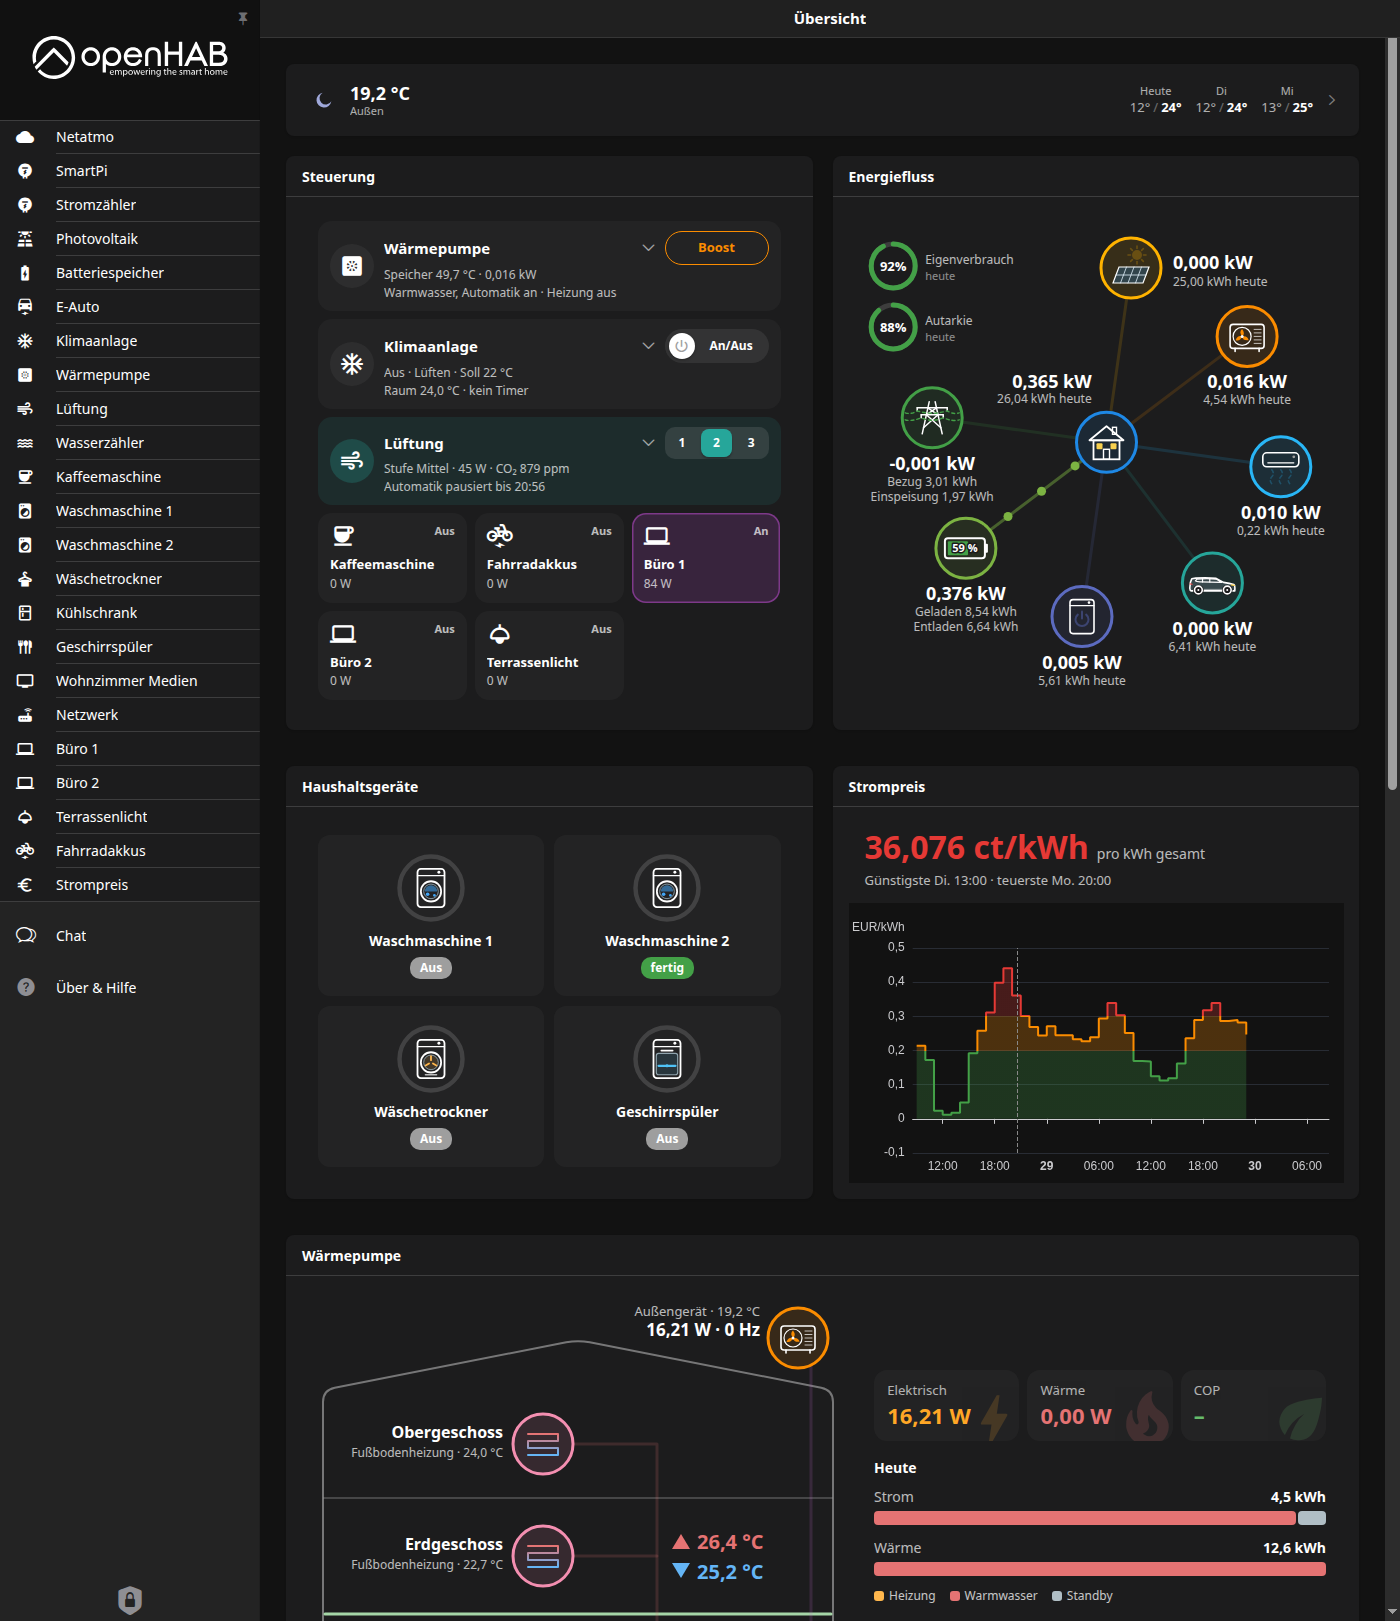
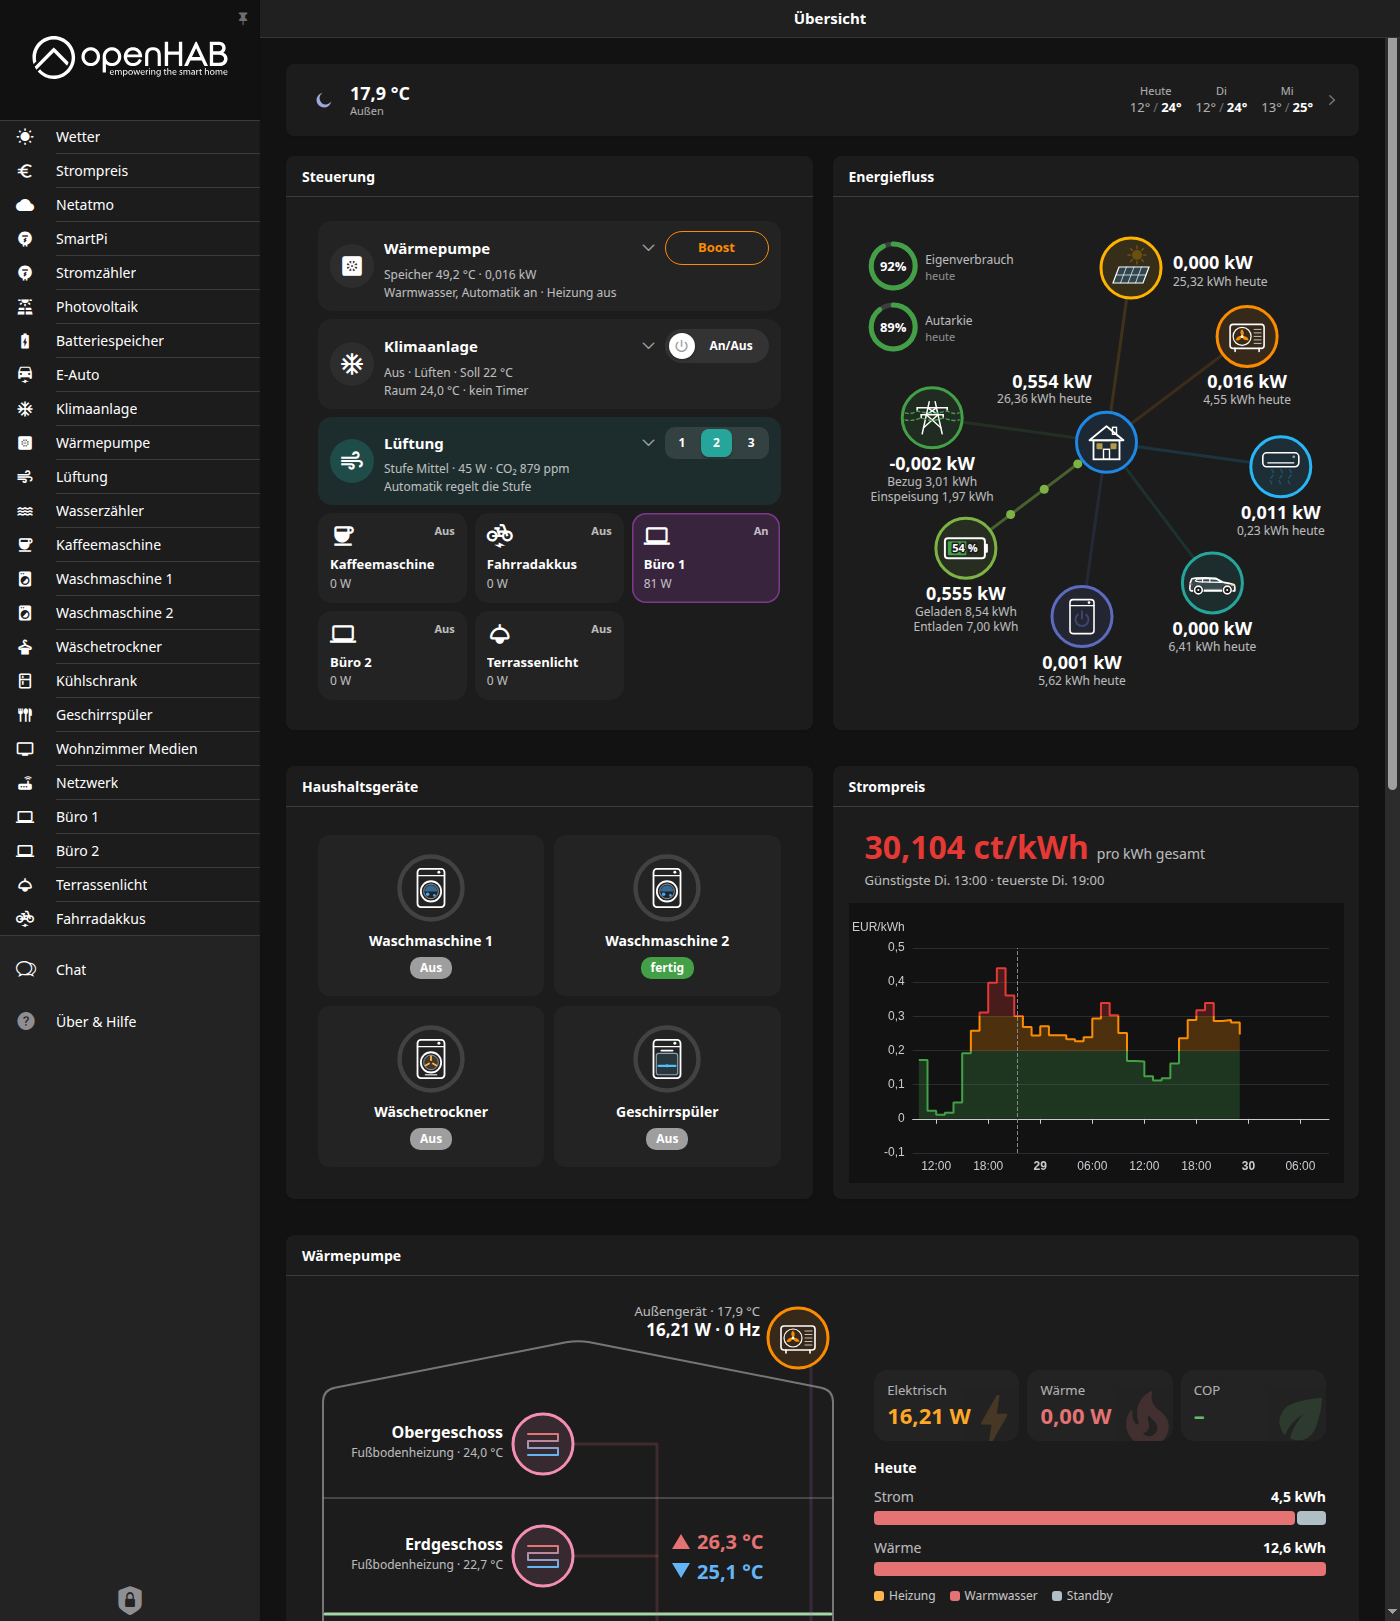
scripts: the weather as the sidebar's first page
- A page weather (Wetter) of the forecast popup's cards: on a wider screen
  the forecast beside Meteoblue and the other sources, the warnings across
  both while there are any
- Pages the generator adds get label, icon and sidebar order from
  NEW_PAGES until the UI changes them
- The Meteoblue frame at most 507 px wide, so its worked-out height holds
  in a wider card too
- sidebar_order.py numbers the sidebar anew from 1: Wetter, Strompreis,
  then the devices in their order so far
- Overview screenshots retaken with the new sidebar

diff --git a/scripts/openhab-ui/dashboard.py b/scripts/openhab-ui/dashboard.py
@@ -1056,16 +1056,19 @@ def weather_forecast_card():
     return card("Vorhersage", [days, div([weather_forecast_chart()], **{"padding": "0 4px 6px"})])
 
 
-def weather_popup(now):
+def weather_cards():
+    """The weather's cards, for its popup and its page: warnings, forecast, Meteoblue and the other sources."""
     # the widget's height follows its width, 434 px at 293 px wide and 0.36 px more per pixel (measured); the frame
-    # is the popup's width less 52 px on a phone and 507 px in the popup of a wider screen. A page cannot read the
-    # height of a frame from another site, so it is worked out from the width
+    # is the card's width less 52 px on a phone and 507 px at most, in the popup of a wider screen as on the page,
+    # where it stands in the middle of a wider card. A page cannot read the height of a frame from another site, so
+    # it is worked out from the width
     width = "Math.min(507, screen.width - 52)"
     # the widget's document declares no color-scheme: in MainUI's dark theme Chrome would paint an opaque white
     # canvas behind it, and the dark layout's white text would vanish; a light scheme keeps the canvas transparent
     frame = comp("oh-webframe", {"src": f"='{METEOBLUE}' + (themeOptions.dark === 'dark' ? 'dark' : 'light')",
                                  "height": f"=Math.ceil(434 + ({width} - 293) * 0.36) + 8 + 'px'", "frameborder": "0",
-                                 "scrolling": "no", "style": {"width": "100%", "border": "0", "display": "block",
+                                 "scrolling": "no", "style": {"width": "100%", "max-width": "507px", "margin": "0 auto",
+                                                              "border": "0", "display": "block",
                                                               "color-scheme": "light"}})
     orf = div([comp("oh-icon", {"icon": "material:open_in_new", "width": 22, "height": 22}),
                label("Prognose für Wien bei wetter.orf.at", **{"flex": "1", "font-size": "14px"}),
@@ -1076,15 +1079,29 @@ def weather_popup(now):
                  "(CC BY 4.0), Modell GeoSphere AROME Austria, spätere Stunden und Tage sowie die "
                  "Regenwahrscheinlichkeit aus dem Best Match; Warnungen von GeoSphere Austria (warnungen.zamg.at).",
                  **{"font-size": "12px", "opacity": "0.6", "padding": "4px 16px 14px"})
-    # the cards as rows of one block, as in the other popups, so they keep a card's gap and not a block's; the
-    # warnings only while there are any, without them the forecast stands at the top
-    warnings = row(full(weather_warnings_card()))
-    warnings["config"]["visible"] = f"={wx_json(WX_WARNINGS)}.length > 0"
-    blocks = [block(warnings,
-                    row(full(weather_forecast_card())),
-                    row(full(card("Meteoblue · 5 Tage", [div([frame], **{"padding": "4px 12px 12px"})]))),
-                    row(full(card("Weitere Quellen", [orf, note]))))]
+    return (weather_warnings_card(), weather_forecast_card(),
+            card("Meteoblue · 5 Tage", [div([frame], **{"padding": "4px 12px 12px"})]), card("Weitere Quellen", [orf, note]))
+
+
+def wx_warnings_row(warnings):
+    """The warnings across the page, only while there are any; without them the forecast stands at the top."""
+    out = row(full(warnings))
+    out["config"]["visible"] = f"={wx_json(WX_WARNINGS)}.length > 0"
+    return out
+
+
+def weather_popup(now):
+    # the cards as rows of one block, as in the other popups, so they keep a card's gap and not a block's
+    warnings, forecast, meteoblue, sources = weather_cards()
+    blocks = [block(wx_warnings_row(warnings), row(full(forecast)), row(full(meteoblue)), row(full(sources)))]
     return {WEATHER_POPUP: layout_page(WEATHER_POPUP, {"label": "Wetter", "sidebar": False}, blocks, now)}
+
+
+def weather_blocks():
+    """The weather's page in the sidebar, of the popup's cards: on a wider screen the forecast beside Meteoblue and
+    the other sources, the warnings across both."""
+    warnings, forecast, meteoblue, sources = weather_cards()
+    return [block(wx_warnings_row(warnings), row(col([forecast]), col([div([meteoblue, sources])])))]
 
 
 # ---------------------------------------------------------------- 2b. heat pump, in the style of the energy flow
@@ -3603,8 +3620,11 @@ def below_controls(builder):
     return lambda: plots_below_controls(builder())
 
 
+# the label, icon and sidebar order of a page the generator adds, until the UI changes them
+NEW_PAGES = {"weather": {"label": "Wetter", "icon": "material:wb_sunny", "order": "1"}}
 DEVICE_PAGES = {
     # uid: builder of the blocks; label, icon and sidebar order stay those of the existing page
+    "weather": weather_blocks,
     "netatmo": netatmo_blocks,
     "smartpi": meter_blocks("smartpi_ptot", SMARTPI_SIGN,
                             [("Bezug heute", "smartpi_ecday", "#e53935"), ("Einspeisung heute", "smartpi_epday", "#43a047")],
@@ -4204,7 +4224,7 @@ def migrate_pages(d):
                    **popup_pages_of("hp", HP_POPUPS, now)}.items():
         d = m.insert(d, uid, p)
     for uid, blocks in DEVICE_PAGES.items():  # the device pages, label, icon and sidebar order kept
-        old = d[uid]["value"]["config"]
+        old = d[uid]["value"]["config"] if uid in d else NEW_PAGES[uid]
         config = {"label": old["label"], "icon": old.get("icon"), "order": old.get("order"), "sidebar": True}
         d = m.insert(d, uid, layout_page(uid, config, blocks(), now))
     # the home page shows the overview alone: with all three model tabs hidden MainUI drops the tab bar

diff --git a/scripts/openhab-ui/applied/sidebar_order.py b/scripts/openhab-ui/applied/sidebar_order.py
@@ -1,0 +1,31 @@
+#!/usr/bin/env python3
+"""The sidebar's pages numbered anew from 1: the weather first, the electricity price below it, then the devices in
+their order so far (E-Car after the energy storage). Run after the generator has added the weather page.
+Usage: sidebar_order.py check|apply   (with openHAB stopped for apply)"""
+import sys
+src = open("/tmp/awattar_migrate.py").read().replace("\nmain()\n", "\n")
+m = type(sys)("m")
+exec(compile(src, "awattar_migrate", "exec"), m.__dict__)
+ORDER = ["weather", "epex_spot", "netatmo", "smartpi", "power_meter", "photovoltaics", "energy_storage", "e_car",
+         "air_conditioning", "heatpump", "ventilation", "water_meter", "coffee_machine", "washing_machine_1",
+         "washing_machine_2", "tumble_dryer", "refrigerator", "dishwasher", "living_room_entertainment", "network",
+         "office_1", "office_2", "terrace_light", "bicycle_batteries"]
+NAME = "uicomponents_ui_page.json"
+data, enc = m.detect(m.DB + NAME)
+sidebar = {uid for uid, p in data.items() if p["value"]["config"].get("sidebar")}
+# a check before the generator has run may miss the weather page, an apply must find every page
+missing = set(ORDER) - sidebar
+assert not sidebar - set(ORDER) and (not missing or sys.argv[1] == "check" and missing == {"weather"}), \
+    (sorted(sidebar - set(ORDER)), sorted(missing))
+for n, uid in enumerate(ORDER, 1):
+    if uid not in data:
+        print(f"{n:2} {uid:26} not there yet")
+        continue
+    config = data[uid]["value"]["config"]
+    print(f"{n:2} {uid:26} {config.get('order')!s:>4} -> {n}  {config.get('label')}")
+    config["order"] = str(n)
+text = m.encode(data, *enc)
+print(f"{NAME}: encoder html={enc[0]} newline={enc[1]} ok; {len(ORDER)} pages")
+if sys.argv[1] == "apply":
+    open(m.DB + NAME, "w", encoding="utf-8").write(text)
+    print("written")
